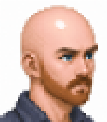
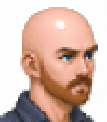
Track the mouse on the landing portrait only
Equip, Skills, Name Entry and the resume now show a static frame. Only the
landing page follows the pointer.

Following is opt-in rather than opt-out: the tracking costs a window
pointer listener and nine preloaded frames, which is not something a new
use of this component should acquire by accident. The static path renders
a plain <img> -- no listener, no preloading, no cross-fade layers for a
picture that is never going to change.

PartyMember gates it on healthReduction, the flag already standing for
"this is the interactive landing instance": it gates the cursor, the
revive and the limit break too. Equip and Skills render the same component
without it.

The resume's portrait was a raw <img> on /portrait.png, so it takes the
same frame through lookFrameSrc rather than a second hardcoded path. Both
images are 107x122, so its sizing is unaffected.

Claude-Session: https://claude.ai/code/session_01CjnpaYAr8vizShw4o1xh1Z

diff --git a/frontend/src/components/Portrait/Portrait.tsx b/frontend/src/components/Portrait/Portrait.tsx
@@ -1,6 +1,6 @@
 import { useEffect, useLayoutEffect, useRef, useState } from "react";
 import { useContext } from "../../context/context";
-import useLookDirection, { LOOK_DIRECTIONS, lookFrameSrc, type LookDirection } from "../../hooks/useLookDirection";
+import useLookDirection, { LOOK_DIRECTIONS, STATIC_LOOK, lookFrameSrc, type LookDirection } from "../../hooks/useLookDirection";
 import styles from "./Portrait.module.scss";
 import {
     resolvePortrait,
@@ -17,6 +17,15 @@ interface PortraitProps {
      * Ignored by the character portraits, which have only the one frame.
      */
     look?: LookDirection | null;
+    /**
+     * Whether the portrait follows the mouse. Only the landing page does; the
+     * copies on Equip, Skills, Name Entry and the resume are static.
+     *
+     * Off by default, so a new use of this component is static unless it asks
+     * otherwise -- the tracking costs a window pointer listener and nine
+     * preloaded frames, which is not something to acquire by accident.
+     */
+    follow?: boolean;
     width?: number;
     className?: string;
     /** Override the name used to resolve the portrait; defaults to the saved user name */
@@ -113,12 +122,25 @@ const LookingPortrait: React.FC<{ src: string; width: number; className?: string
 
 // Renders the party member's portrait, swapping to an FF7 character's face from
 // the shared spritesheet when the (case-insensitive) name matches one.
-const Portrait: React.FC<PortraitProps> = ({ src, width = 145, className, name, alt = "Party Member Portrait", look }) => {
+const Portrait: React.FC<PortraitProps> = ({ src, width = 145, className, name, alt = "Party Member Portrait", look, follow = false }) => {
     const { userName } = useContext();
     const sprite = resolvePortrait(name ?? userName);
 
     if (!sprite) {
-        return <LookingPortrait src={src} width={width} className={className} alt={alt} look={look} />;
+        if (follow) {
+            return <LookingPortrait src={src} width={width} className={className} alt={alt} look={look} />;
+        }
+        // Deliberately the plain element: no pointer listener, no preloading and
+        // no cross-fade layers for a portrait that is never going to change.
+        return (
+            <img
+                src={lookFrameSrc(STATIC_LOOK)}
+                alt={alt}
+                width={width}
+                className={`object-contain ${className ?? ""}`}
+                onError={event => { event.currentTarget.src = src; }}
+            />
+        );
     }
 
     const scale = width / PORTRAIT_WIDTH;

diff --git a/frontend/src/components/PartyMember/PartyMember.tsx b/frontend/src/components/PartyMember/PartyMember.tsx
@@ -251,7 +251,10 @@ const PartyMember: React.FC<partyMemberProps> = ({ memberId, showProgressBars = 
                 <div className={styles.portrait} data-shake={isAttacking} data-dying={isDying} data-interactive={healthReduction} data-health={currentHealth?.toString()} data-focused={keyboardFocus === "avatar"}>
                     {isAttacking && <p className="absolute">{textToSprite(damage.toString(), true)}</p>}
                     <div className="self-center relative" onClick={handleOnClick} onMouseEnter={handleMouseEnter}>
-                        <Portrait src={image_path} width={145} look={headbangLook} />
+                        {/* healthReduction marks the landing instance -- the same flag
+                            gates the cursor, the revive and the limit break. The copies
+                            on Equip and Skills are static. */}
+                        <Portrait src={image_path} width={145} look={headbangLook} follow={healthReduction} />
                         {limitHits > 0 && (
                             <div
                                 className={styles.limitSlashes}

diff --git a/frontend/src/pages/Resume/Resume.tsx b/frontend/src/pages/Resume/Resume.tsx
@@ -8,6 +8,7 @@ import textToSprite from "../../util/textToSprite";
 import playSound from "../../util/sounds";
 import { useCursorNav, markKeyboardNavigation } from "../../hooks/useCursorNav";
 import { closeNav } from "../../hooks/closeNav";
+import { lookFrameSrc, STATIC_LOOK } from "../../hooks/useLookDirection";
 
 import skillsJSON from "../../data/skills.json";
 import historyJSON from "../../data/history.json";
@@ -214,7 +215,7 @@ function ResumeContent() {
                             </div>
                             {separator("sep-title")}
                             <div className={styles.profileRow}>
-                                <img src="/portrait.png" alt="Portrait" className={styles.portrait} />
+                                <img src={lookFrameSrc(STATIC_LOOK)} alt="Portrait" className={styles.portrait} />
                                 <ul className={styles.stats}>
                                     {CONTACT.map(([label, value]) => (
                                         <li key={label} className="flex justify-between">

diff --git a/frontend/src/hooks/useHeadbang.ts b/frontend/src/hooks/useHeadbang.ts
@@ -6,10 +6,10 @@ import type { LookDirection } from "./useLookDirection";
  * middle frame the head teleports between the two extremes and reads as a
  * flicker rather than a nod -- the portrait has a centre frame, so use it.
  */
-const SEQUENCE: LookDirection[] = ["up", "center", "down", "center"];
+const SEQUENCE: LookDirection[] = ["up", "center", "down-left", "center", "up", "center", "down-right", "center"];
 
 /** Per frame. Four frames to the cycle, so a nod is a little over half a second. */
-const BEAT_MS = 140;
+const BEAT_MS = 120;
 
 /**
  * Drives the portrait through a nodding loop for a set time, then hands it back.

diff --git a/frontend/src/hooks/useLookDirection.ts b/frontend/src/hooks/useLookDirection.ts
@@ -16,6 +16,12 @@ export const lookFrameSrc = (direction: LookDirection) =>
     `/portrait--look-${direction}.png`;
 
 /**
+ * The frame every static portrait uses. The nine exist for the landing page's
+ * mouse tracking; everywhere else picks one and stays on it.
+ */
+export const STATIC_LOOK: LookDirection = "up";
+
+/**
  * The eight compass sectors, in the order atan2 sweeps them starting from
  * "pointing left" (-PI) and going clockwise on screen, since y grows downward.
  */
